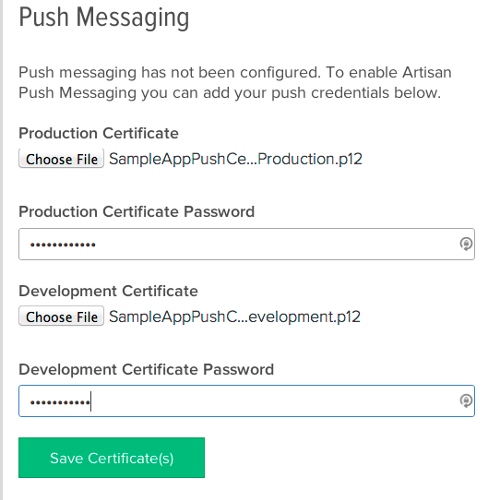
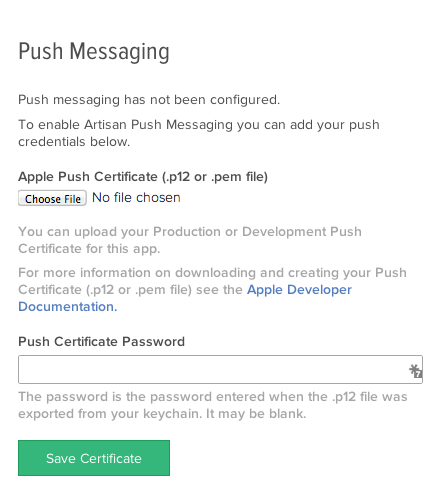
Updates to be clearer about dev vs prod certs

Changed region(s): [[0.0, 0.0, 0.9706, 1.0], [0.9118, 0.4555, 0.9706, 0.5162]]

diff --git a/_posts/2014-05-09-push-notifications.md b/_posts/2014-05-09-push-notifications.md
@@ -14,7 +14,7 @@ Enabling Artisan Push includes the following steps:
 <ol>
   <li><a href="#apn">Enable Apple Push Notifications for Your App</a></li>
   <li><a href="#artisan-version">Verify Artisan SDK version</a></li>
-  <li><a href="#app-certificates">Add Apple Push Certificates to Artisan Tools</a></li>
+  <li><a href="#app-certificates">Add your Apple Push Certificate to Artisan Tools</a></li>
   <li><a href="#app-settings">Register for Push Notifications in your SDK</a></li>
   <li><a href="#test">Send a Test Message</a></li>
   <li><a href="#done">Build your Campaigns</a></li>
@@ -40,11 +40,15 @@ Artisan Push Messaging is supported for Artisan iOS SDK version 2.1.2 and above.
 
 <div id="app-certificates"></div>
 
-## 3. Add Apple Push Certificates to Artisan Tools
+## 3. Add your Apple Push Certificate to Artisan Tools
 
-Back in Artisan Tools on the settings page for your app you can upload your APN SSL Certificates to Artisan. You will need the .p12 files and the passwords for the certificates, if any were set when the certificates were created.
+Back in Artisan Tools on the settings page for your app you can upload your APN SSL Certificate to Artisan. You will need either the .p12 or .pem file created from the APN certificate, and it's password if any was set during creation.
 
 <img src="/images/screens/ios-push-app-settings-500x500.png" />
+
+<div class="note note-important">
+  <p>NOTE: You will only be able to upload one APN certificate per Artisan application. You should use the development environment APN certificate for your development provisioning profile built applications and the production environment APN certificate for your App Store or Ad Hoc provisioning profile built applications. We'll determine which type of certificate you've uploaded and inform you in your app settings if you're unsure which you have.</p>
+</div>
 
 <div id="app-settings"></div>
 
@@ -71,7 +75,7 @@ See <a href="http://developer.apple.com/library/ios/documentation/NetworkingInte
 
 ## 5. Send a Test Message
 
-Once you have added your Apple Push Certificates you should send a test message to your device to make sure that everything has been configured correctly.
+Once you have added your Apple Push Certificate you should send a test message to your device to make sure that everything has been configured correctly.
 
 You will need your test device's push token. If you run your app from XCode you should see your device token in the console soon after your app starts.
 
@@ -86,7 +90,7 @@ In Artisan Tools on your app settings page there will be a new form from which y
     <p>Depending on your network it can take a minute or more for the message to arrive. If you have waited a few minutes and still haven't received the test message there are a few things to check:</p>
     <ul>
       <li><strong>Device Token</strong> Double check that you correctly copied the device token from the logs for your app.</li>
-      <li><strong>Certificates</strong> Double check that you have uploaded the correct certificates for your app. They need to match the provisioning profile that you are building with in XCode.</li>
+      <li><strong>Certificates</strong> Double check that you have uploaded the correct certificate for your app. The type of the uploaded certificate needs to match the type of provisioning profile that you are building with in XCode. Development builds will only receive notifications from a development certificate and distribution builds will only receive notifications from a production certificate.</li>
       <li><strong>Errors?</strong> Check that there weren't any other errors logged in the console for your app.</li>
     </ul>
     <p>We are always more than happy to help! Send an email to <a href="mailto:support@useartisan.com?Subject=Artisan%20iOS%20Push%20Help" target="_top">support@useartisan.com</a>.</p>
